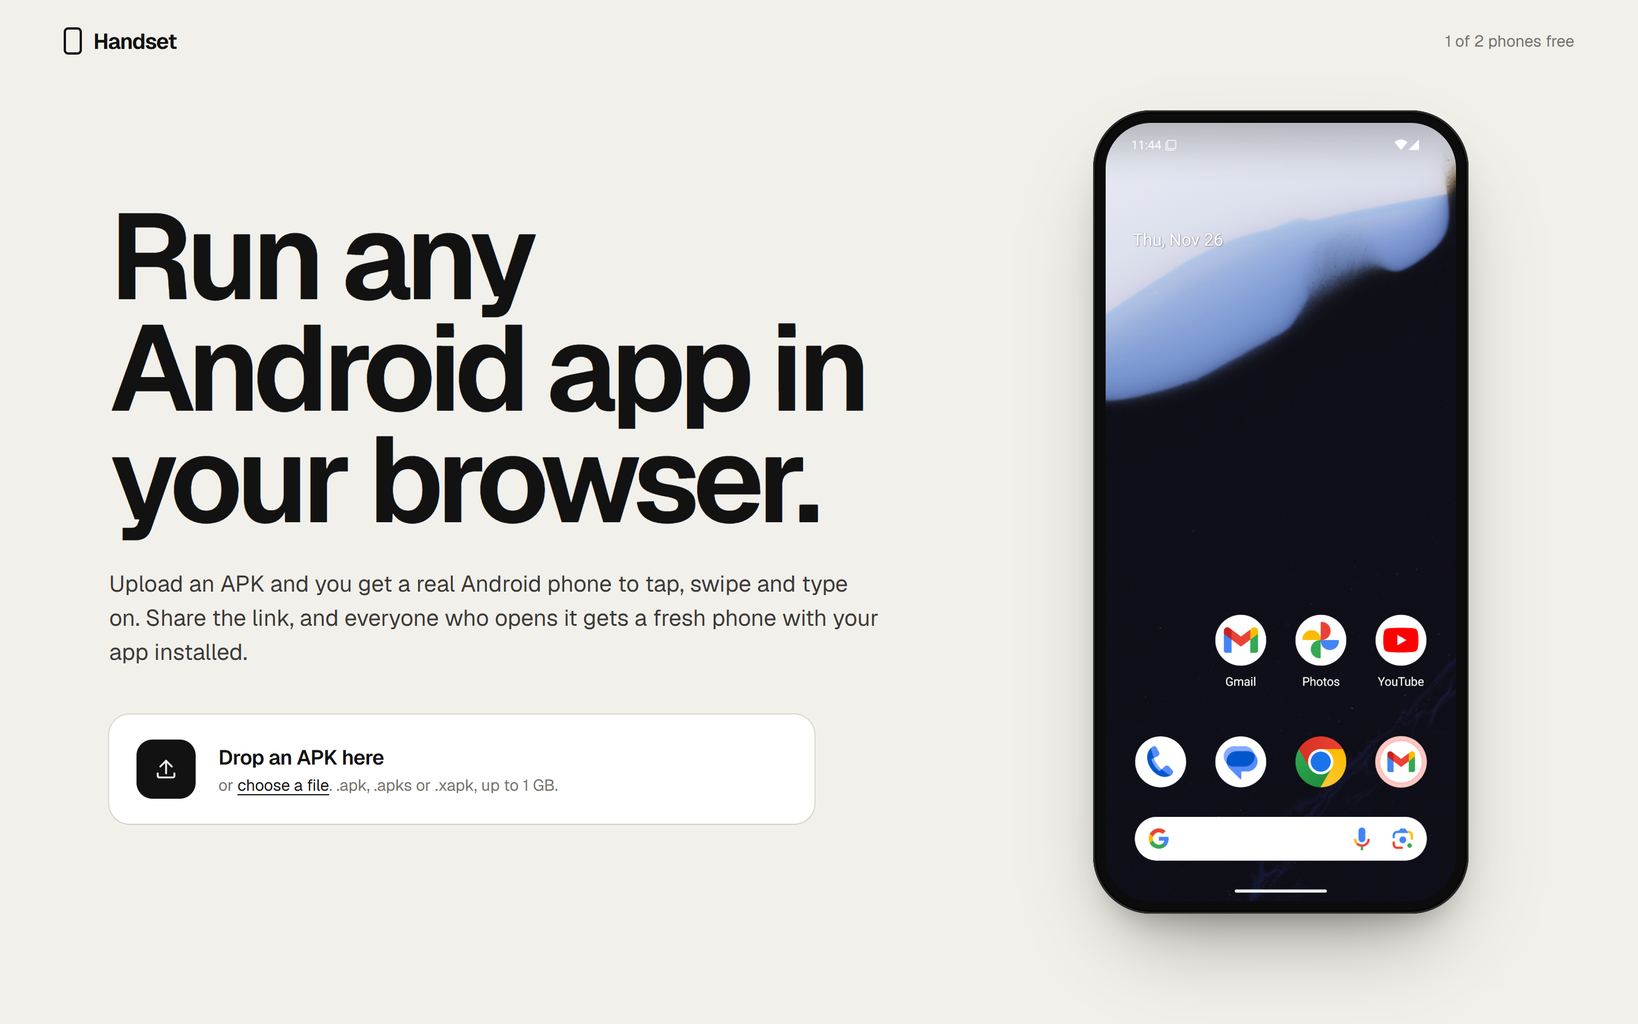
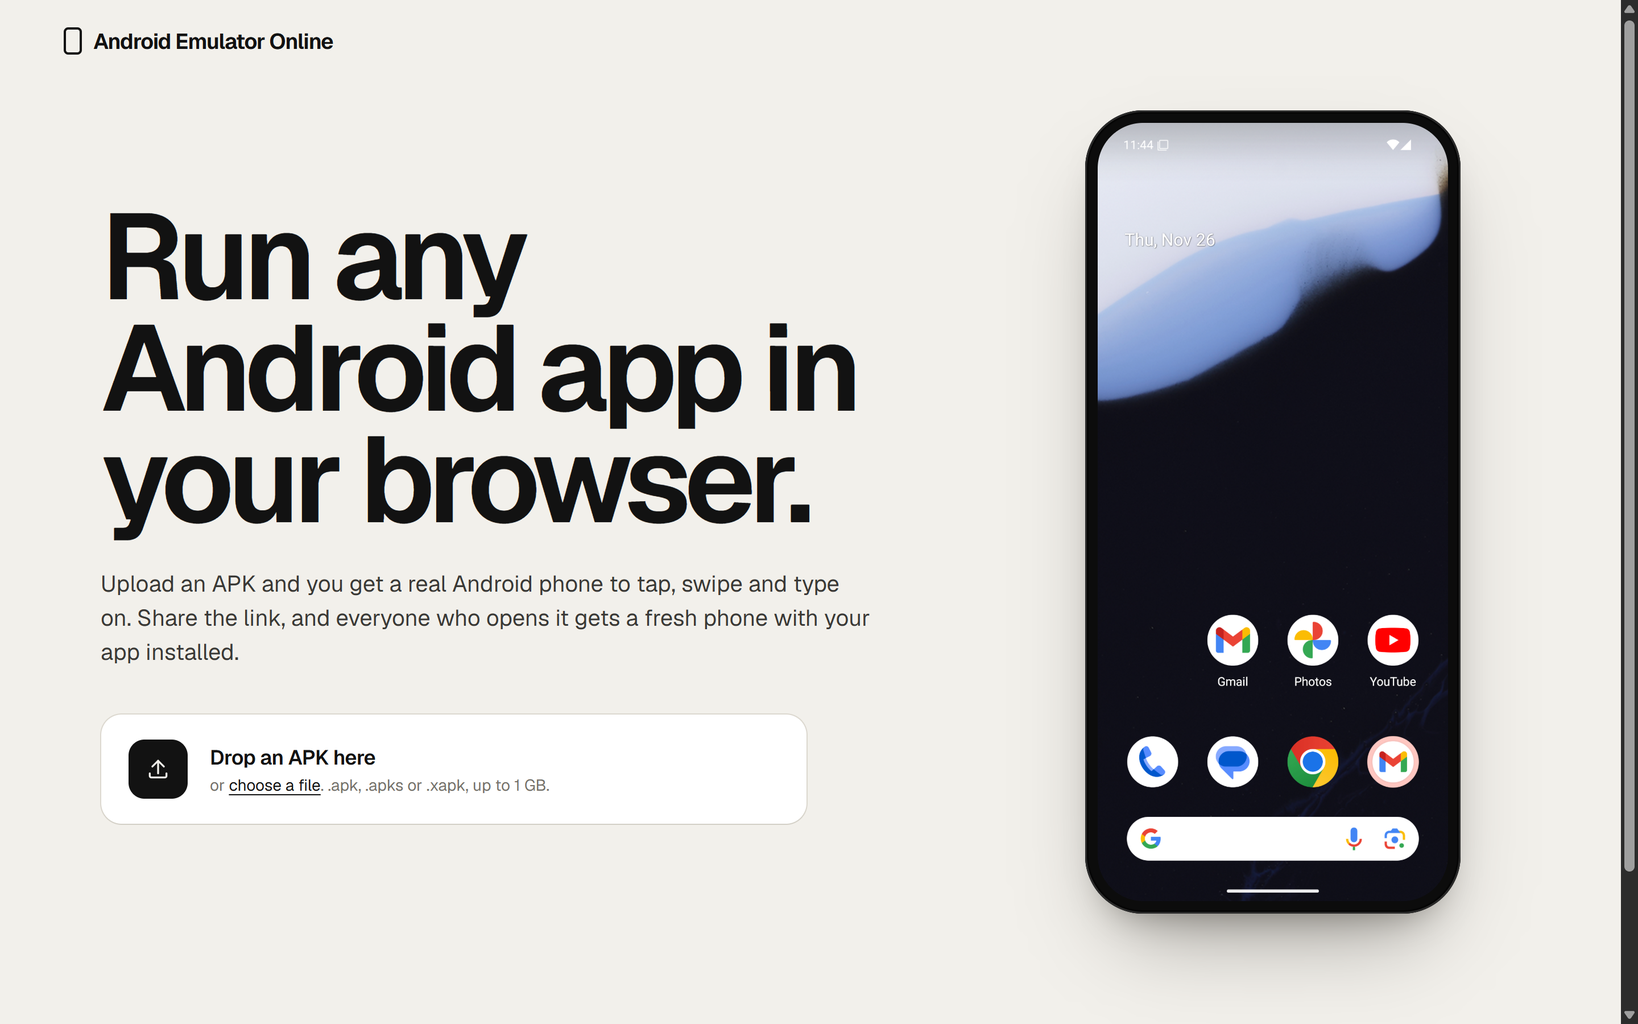
New README: why, features, comparison, measured performance, FAQ
- Clearer pitch and quick links; "Why" and "Who it's for".
- Features grouped (real phone, testing with roles, sharing, light on
  the host), including Standard/Light phones, with a picture of the menu.
- How it compares with Appetize, the Android Studio emulator and
  BrowserStack App Live.
- Requirements as minimum vs recommended, and a performance table with
  the numbers measured on a 6-core i5 without GPU acceleration.
- FAQ and troubleshooting for the common questions and problems.
- Screenshots updated for the new name.

diff --git a/README.md b/README.md
@@ -6,63 +6,123 @@
 
 **Run any Android app (APK) in your browser, on a real Android phone.**
 
-A free, self-hosted Android emulator you open in a browser tab. Tap, swipe, type and switch test accounts in one click.<br>
-Share the link and everyone who opens it gets their own fresh phone with your app. A self-hosted alternative to Appetize.
+Upload an APK, get a link, and anyone who opens it can tap, swipe and type on a fresh Android 15 phone in their browser.<br>
+Free and self-hosted: it runs on your own computer, with one-click test accounts for every role in your app.
+
+[Quick start](#quick-start) · [Features](#features) · [How it compares](#how-it-compares) · [FAQ](#faq)
 
 <br>
 
-<img src="docs/screenshot-player.png" alt="Android Emulator Online in the browser: an Android phone running a gallery app, with a list of test accounts to sign in as on the left" width="100%">
+<img src="docs/screenshot-player.png" alt="An Android phone running in the browser, showing a photo in a gallery app, with a list of test accounts to sign in as on the left and phone controls on the right" width="100%">
 
 </div>
 
 <br>
 
-## What it does
+## Why
 
-- **Real Android, in a tab.** Upload an `.apk`, `.apks` or `.xapk` and it opens on an Android 15 phone in the browser. Swipes, flings, long-press, pinch and Android's own gestures all work.
-- **A link anyone can open.** Share `/app/<id>`. Every visitor gets a fresh phone with your app installed, and it is wiped when they leave.
-- **Test accounts in one click.** Save a login for each role (Admin, Front desk…). Visitors switch between them without ever seeing a password.
-- **Light on your computer.** Phones nobody is looking at are frozen (0% CPU), and crashed phones are replaced on their own.
+Getting someone to try an Android app is clumsy. You send an APK they have to sideload, ask them to install Android Studio, or pay a cloud service by the minute. Android Emulator Online turns one computer into a small device lab instead: upload the app once, share a link, and every person who opens it gets their own phone, wiped clean when they leave.
 
-<br>
+## Features
 
-## Get started
+### Feels like a real phone
 
-You need Node.js 18+, the Android SDK and about 16 GB of RAM. [Details below](#what-you-need).
+- Real Android 15 on a Pixel 7 screen. Tap, swipe, fling, long-press and pinch, with Android's own gestures.
+- Smooth scrolling with a mouse wheel or trackpad. The wheel drives a virtual finger instead of jumping in steps, and frames are shown at an even pace.
+- Type on your keyboard. Copy and paste works in both directions between your computer and the phone.
+- Rotate, take full-resolution screenshots, restart or clear the app, go full screen.
+
+### Built for testing apps with several roles
+
+- **One-click test accounts.** Save a login for each role (Admin, Front desk, Guest…), then switch between them with one click. Visitors never see the passwords.
+- **Automatic sign-in.** It signs the app out, reopens it, taps through intro and permission screens, fills the sign-in form and presses the app's own button. If the app shows an error, you see it.
+- **Fast switching.** After the first sign-in, switching back to an account restores it in about 4 seconds.
+- Drag accounts to reorder them, and export or import them as a file.
+
+### Easy to share
+
+- Every app gets a link. Each visitor gets a fresh phone with the app installed, and it is wiped when they leave.
+- Works in any modern browser on any device, from a cheap laptop to a phone: the visitor's device only shows a video.
+
+### Light on the computer that runs it
+
+- **Standard or Light phone**, chosen per session. A Light phone uses about 2.5 GB of memory instead of about 4 GB and opens apps faster.
+- A frozen spare phone is kept ready, so a new visitor gets a phone in about 2.5 seconds while the spare uses no CPU.
+- Phones nobody is watching are frozen (0% CPU). A crashed phone is replaced on its own, with the app reinstalled.
+- Phones and sessions survive a server restart: visitors reconnect automatically.
+
+<p align="center"><img src="docs/phone-kinds.png" alt="The phone menu in the page header: Standard phone, full Android 15 that looks and works like a real phone; Light phone, uses about 2.5 GB of memory and opens apps faster" width="460"></p>
+
+## Who it's for
+
+- **QA and testers** checking each role of an app without juggling logins or devices.
+- **Agencies and freelancers** showing clients a work-in-progress build with just a link.
+- **Product, design and support teams** who need to see the app as a user sees it, without Android Studio.
+- **Sales and demos**: a live app in the browser, ready on any screen.
+
+## How it compares
+
+| | Android Emulator Online | Appetize | Android Studio emulator | BrowserStack App Live |
+| --- | --- | --- | --- | --- |
+| Runs on | Your own computer or server | Their cloud | Your computer | Their cloud |
+| Cost | Free | Paid plans, small free tier | Free | Paid, free trial |
+| Share a link to the app | Yes | Yes | No | Team accounts |
+| One-click test accounts per role | Yes | No | No | No |
+| Your app and logins stay on your machine | Yes | No | Yes | No |
+| iOS apps | No | Yes | No | Yes |
+| Real physical devices | No, emulators | No, emulators | No, emulators | Yes |
+
+## Quick start
+
+You need Node.js 18+, the Android SDK and hardware virtualization. [Full requirements](#requirements).
 
 ```bash
 git clone https://github.com/Aaryan-Saini/android-emulator-online.git
 cd android-emulator-online
 npm install
-npm run setup     # once, 5–10 min: builds a clean phone to start from
-npm start         # → http://localhost:3000
+npm run setup     # once, 5–10 minutes: builds the clean phone every session starts from
+npm start         # open http://localhost:3000
 ```
 
-Open **[localhost:3000](http://localhost:3000)**, drop in an APK, and your app opens on a phone.
+Drop an APK on the page and it opens on a phone. Copy the link to share it.
 
-<img src="docs/screenshot-home.png" alt="Home page: 'Run any Android app in your browser' with a box to drop an APK" width="100%">
+<img src="docs/screenshot-home.png" alt="The home page: Run any Android app in your browser, with a box to drop an APK and an Android phone beside it" width="100%">
 
-Each person runs their own copy. Your apps, accounts and phones stay on your computer, in `data/`, which is never committed.
+Each person who clones this runs their own copy. Uploaded apps, saved accounts and phone data stay in `data/` on your computer and are never committed.
 
-<br>
+## Requirements
 
-## Using it
+| | Minimum | Recommended |
+| --- | --- | --- |
+| CPU | 4 cores with virtualization (Intel VT-x or AMD-V) | 6 cores or more |
+| Memory | 8 GB, for one Light phone (estimated) | 16 GB or more |
+| Disk | 15 GB free | An SSD |
+| System | Windows 10/11, Linux with KVM, or macOS | |
 
-**Controls.** Everything works with a mouse, and touch screens work natively.
+- **Virtualization** must be switched on. Windows: enable it in the BIOS, then *Windows Features → Windows Hypervisor Platform*. Linux: KVM (`/dev/kvm`). macOS: nothing to do.
+- **Android SDK** with platform-tools, the emulator, build-tools and an Android 15 *Google APIs* image. The easiest way is [Android Studio](https://developer.android.com/studio) → *Settings → Android SDK*, or with the command-line tools:
 
-| | |
-| --- | --- |
-| Tap, swipe, fling | Click, or click and drag |
-| Pinch | Hold `Ctrl` and drag |
-| Back | Right-click or `Esc` |
-| Home | Middle-click, or swipe up from the bottom edge |
-| Type | Just type. `Ctrl+V` pastes into the phone, and text copied on the phone lands on your clipboard |
+  ```bash
+  sdkmanager "platform-tools" "emulator" "build-tools;35.0.0" "system-images;android-35;google_apis;x86_64"
+  ```
 
-The bar beside the phone has back, home, recent apps, rotate, screenshot, restart app, clear app data and full screen.
+  On an Apple silicon Mac use `system-images;android-35;google_apis;arm64-v8a`. The SDK is found in its usual place, or set `ANDROID_HOME`.
+- No graphics card is needed: phones are drawn on the CPU.
 
-**Test accounts.** Click **+ Add account** beside the phone, give it a name, username and password, then switch roles with one click. Android Emulator Online signs out, reopens the app, taps through intro screens and fills the sign-in form for you. After the first time, switching back to an account takes a few seconds. Drag accounts to reorder them, and use **Export / Import** to move them between computers. Accounts can be changed on the computer Android Emulator Online runs on, or in the browser that uploaded the app. Visitors from elsewhere only get the one-click list.
+## Performance
 
-<br>
+Measured on an Intel i5-9500 (6 cores) with 32 GB of RAM, no GPU acceleration, one phone in use:
+
+| | Standard phone | Light phone |
+| --- | --- | --- |
+| Memory per phone | 3.9 GB | 2.5 GB |
+| App start (a Flutter app) | about 2 s | about 1.1 s |
+| New visitor gets a phone (frozen spare ready) | about 2.5 s | |
+| Switch to an account signed in before | about 4 s | |
+| Scrolling a list, typical frame | about 22 ms | |
+| Phone nobody is watching | 0% CPU, frozen | |
+
+Two phones busy at the same time on 6 cores roughly triples frame times, so on a machine like this one phone at a time (`MAX_DEVICES=1`) feels best.
 
 ## How it works
 
@@ -74,62 +134,27 @@ flowchart LR
   S -- "WebSocket" --> B
 ```
 
-- **Phones** are Android emulators that start read-only from one clean snapshot in 15–30 seconds, so every visitor gets the same fresh phone and nothing is kept.
+- **Phones** are Android emulators that start read-only from one clean snapshot, so every visitor gets the same fresh phone and nothing is kept.
 - **Video** comes from [scrcpy](https://github.com/Genymobile/scrcpy) on the phone and is decoded in the browser with WebCodecs. Each browser gets exactly the size it shows, and late frames are dropped so lag never builds up.
-- **Sign-in** uses Android's accessibility layer to read the screen and fill fields, the way a password manager does.
+- **Sign-in** reads the screen through Android's accessibility layer and fills fields the way a password manager does, checking each value before pressing the button.
+- **Apps draw through ANGLE** inside the phone (OpenGL ES turned into Vulkan), which avoids a software renderer that crashed phones and makes apps smoother.
 
-<br>
+## Using it
 
-## What you need
+| Action | How |
+| --- | --- |
+| Tap, swipe, fling | Click, or click and drag |
+| Scroll | Mouse wheel or trackpad |
+| Pinch | Hold `Ctrl` and drag |
+| Back | Right-click or `Esc` |
+| Home | Middle-click, or the buttons beside the phone |
+| Type | Just type. `Ctrl+V` pastes into the phone, and text copied on the phone lands on your clipboard |
 
-- **Hardware virtualization.** On Windows, turn it on in the BIOS and enable *Windows Features → Windows Hypervisor Platform*. On Linux you need KVM. On a Mac there's nothing to do.
-- **Memory.** About 4 GB per phone in use (each phone is a 3 GB Android phone), so 16 GB or more is best. On 8 GB, run one phone at a time (`MAX_DEVICES=1`, `WARM_DEVICES=0`).
-- **Disk.** About 15 GB for the Android SDK and the phone snapshot.
-- **Node.js 18 or newer.**
-- **Android SDK** with platform-tools, the emulator, build-tools and an Android 15 *Google APIs* image. The easiest way is [Android Studio](https://developer.android.com/studio) → *Settings → Android SDK*. With the command-line tools:
+**Test accounts.** Click **+ Add account** beside the phone, give it a name, a username and a password, then switch roles with one click. Accounts can be changed on the computer this runs on, or in the browser that uploaded the app; visitors from elsewhere only get the one-click list.
 
-  ```bash
-  sdkmanager "platform-tools" "emulator" "build-tools;35.0.0" "system-images;android-35;google_apis;x86_64"
-  ```
+**Standard or Light phone.** Pick it in the page header; your browser remembers the choice. A Light phone has no status bar or swipe gestures, so Back and Home use the buttons beside the phone.
 
-  On an Apple silicon Mac use `system-images;android-35;google_apis;arm64-v8a`. Android Emulator Online finds the SDK in its usual place, or set `ANDROID_HOME`.
-
-<br>
-
-## Settings
-
-Everything works out of the box. To change something, put it in `data/settings.json` (stays on your computer), for example `{ "WARM_DEVICES": 0 }`, or set it as an environment variable. Then restart.
-
-<details>
-<summary><b>All settings</b></summary>
-<br>
-
-| Setting | Default | What it does |
-| --- | --- | --- |
-| `PORT` | `3000` | Web address port |
-| `MAX_DEVICES` | `2` | Phones that may run at once (about 4 GB of RAM each) |
-| `WARM_DEVICES` | `1` | Spare phones kept ready, so a new visitor gets a phone in ~2.5 s instead of ~25 s. Frozen while waiting (`FREEZE_SPARE`) |
-| `SESSION_MINUTES` | `0` | Maximum session length. `0` means no limit |
-| `IDLE_SECONDS` | `120` | Shut a phone down this long after its tab closes |
-| `PAUSE_HIDDEN_SECONDS` | `60` | A phone whose tab is in the background keeps running this long, so switching back is instant; then it is frozen |
-| `MAX_SESSIONS_PER_IP` | `2` | Phones per visitor |
-| `MAX_UPLOAD_MB` | `1024` | Largest upload |
-| `VIDEO_MAX_SIZE` / `VIDEO_MIN_SIZE` | `1024` / `640` | Stream size limits (long edge, px) |
-| `VIDEO_BITRATE` | `8000000` | Video bitrate |
-| `GRANT_PERMISSIONS` | `false` | Grant every permission at install, skipping permission prompts |
-| `FAST_FILL` | `true` | Fill sign-in fields instantly, falling back to typing |
-| `LOCAL_ADMIN` | `true` | Anyone on the computer Android Emulator Online runs on can manage every app's accounts |
-| `GUEST_ANGLE` | `true` | Apps draw through ANGLE inside the phone (smoother, and avoids a renderer that crashed phones) |
-| `PHONE_WIFI` | `false` | Phones go online over mobile data, which stays connected after a phone wakes up |
-| `KEEP_PHONES_ON_RESTART` | `true` | Phones and sessions survive a server restart |
-| `TRUST_PROXY` | unset | Set when behind a reverse proxy |
-| `ANDROID_HOME` | auto | Android SDK location |
-
-</details>
-
-<details>
-<summary><b>Letting other people use it</b></summary>
-<br>
+## Share it beyond your computer
 
 Browsers only decode video on `https://` pages (or `localhost`), so other people need an HTTPS address. The quickest way:
 
@@ -137,30 +162,86 @@ Browsers only decode video on `https://` pages (or `localhost`), so other people
 cloudflared tunnel --url http://localhost:3000
 ```
 
-For a permanent setup, put it behind a TLS reverse proxy (Caddy, nginx) with WebSocket support and set `TRUST_PROXY=1`. For more than a couple of phones at once, use a Linux server with KVM. Anyone with the address can upload an app and get a phone with internet access, so add a login in front of a public address.
+For a permanent setup, put it behind a TLS reverse proxy (Caddy, nginx) with WebSocket support and set `TRUST_PROXY=1`. Anyone with the address can upload an app and get a phone with internet access, so put a login in front of a public address. For many phones at once, run it on a Linux server with KVM.
+
+## FAQ
+
+**Is it really free?**
+Yes. It runs on your own computer or server, so there is no per-minute billing.
+
+**Can it run iOS apps?**
+No. iOS apps can only run in Apple's simulator on a Mac.
+
+**Do I need a graphics card?**
+No. Phones are drawn on the CPU, which is why a few fast cores matter more than a GPU.
+
+**Can people on other devices use it?**
+Yes. Their device only needs a modern browser; all the work happens on the computer that runs this. Share it over HTTPS (see above).
+
+**Is my data safe?**
+Uploaded apps and saved accounts stay in `data/` on your computer. Every phone is wiped when its session ends, and visitors never see account passwords.
+
+**Does the phone have the Play Store?**
+No. Phones use Google's *Google APIs* image, so apps that use Google sign-in, Maps or notifications work, but there is no Play Store.
+
+**How many phones can I run?**
+About 4 GB of memory per Standard phone and 2.5 GB per Light phone, plus CPU: on 6 cores, one busy phone at a time feels best.
+
+**Can I upload an `.aab`?**
+Convert it to an APK or a universal `.apks` with bundletool first. `.apk`, `.apks` and `.xapk` work directly.
+
+**Does it have sound?**
+Not yet.
+
+<details>
+<summary><b>Troubleshooting</b></summary>
+<br>
+
+- **The app says it is offline.** Phones go online through your computer's internet. Standard phones use mobile data and Light phones use Wi-Fi, and a phone that wakes from a freeze is only handed back once its internet works. If it persists, end the session and open the app again.
+- **Phones are slow.** Check that virtualization is on, run one phone at a time (`MAX_DEVICES=1`), and close heavy programs. On Windows, run `scripts\defender-exclusions.ps1` once as administrator so Defender stops scanning every file the emulator touches.
+- **The phone screen stays black in another browser.** It is not on `https://` or `localhost`, so the browser will not decode video. Use the tunnel above.
+- **A phone crashed.** The session moves to a fresh phone with the same app on its own, and the crash is written to `data/logs/crashes.log`. On Windows, `scripts\enable-crash-dumps.ps1` (as administrator, once) also records where it crashed.
+- **Setup fails to boot a phone.** Virtualization is usually off, or the Android 15 image is missing. `npm run setup -- --force` tries again from scratch.
 
 </details>
 
 <details>
-<summary><b>Phone setup, graphics and crashes</b></summary>
+<summary><b>All settings</b></summary>
+<br>
+
+Put them in `data/settings.json` (it stays on your computer), for example `{ "MAX_DEVICES": 1 }`, or set them as environment variables. Then restart.
+
+| Setting | Default | What it does |
+| --- | --- | --- |
+| `PORT` | `3000` | Web address port |
+| `MAX_DEVICES` | `2` | Phones that may run at once |
+| `WARM_DEVICES` | `1` | Spare phones kept ready (frozen while they wait, see `FREEZE_SPARE`) |
+| `DEFAULT_PHONE` | `standard` | Kind of phone visitors get unless they choose, and the kind kept as a spare |
+| `SESSION_MINUTES` | `0` | Maximum session length. `0` means no limit |
+| `IDLE_SECONDS` | `120` | Shut a phone down this long after its tab closes |
+| `PAUSE_HIDDEN_SECONDS` | `60` | A phone whose tab is in the background keeps running this long, then is frozen |
+| `MAX_SESSIONS_PER_IP` | `2` | Phones per visitor |
+| `MAX_UPLOAD_MB` | `1024` | Largest upload |
+| `VIDEO_MAX_SIZE` / `VIDEO_MIN_SIZE` | `1024` / `640` | Stream size limits (long edge, px). `720` is smoother on slower machines |
+| `VIDEO_BITRATE` | `8000000` | Video bitrate |
+| `GRANT_PERMISSIONS` | `false` | Grant every permission at install, skipping permission prompts |
+| `FAST_FILL` | `true` | Fill sign-in fields instantly, falling back to typing |
+| `LOCAL_ADMIN` | `true` | Anyone on the computer this runs on can manage every app's accounts |
+| `GUEST_ANGLE` | `true` | Apps draw through ANGLE inside the phone |
+| `PHONE_WIFI` | `false` | Standard phones go online over mobile data, which stays connected after a phone wakes up |
+| `KEEP_PHONES_ON_RESTART` | `true` | Phones and sessions survive a server restart |
+| `TRUST_PROXY` | unset | Set when behind a reverse proxy |
+| `ANDROID_HOME` | auto | Android SDK location |
+
+</details>
+
+<details>
+<summary><b>Phone setup and Light phones</b></summary>
 <br>
 
 - `npm start` keeps the server running and restarts it if it stops. Phones keep running across restarts. Stop everything with `Ctrl+C`, then `npm run stop-phones`.
-- `npm run setup -- --force` rebuilds the phone snapshot. Setup tries your graphics card first and falls back to software drawing. In software mode the screen is 464×1024, the largest size the video is ever sent at, so the CPU draws no pixels nobody sees; apps get the same layout as a Pixel 7 (412×910 dp). Force a mode with `--gpu=host` or `--gpu=swiftshader`, and a screen size with `--screen=WxH@dpi`. `--avd=<name>` builds into a separate profile while phones are running, and Android Emulator Online switches to it on its next restart.
-- **Light phones for weak PCs:** add a second kind of phone built from Google's slim test image (ATD): `sdkmanager "system-images;android-35;google_atd;x86_64"`, then `npm run setup -- --tag=google_atd --ram=2048 --avd=handset-light --as=light --no-switch`. Visitors then pick **Standard phone** or **Light phone** in the page header (remembered per browser). Measured against the standard phone: 1.4 GB less RAM (about 2.5 GB per phone) and apps start faster. Apps look the same, but a light phone has no status bar, no gesture navigation and no Settings app; Home and Back use the buttons beside the phone, and Android Emulator Online reopens the app instead of showing the image's empty black home screen. Spare phones are always standard (`DEFAULT_PHONE` changes that).
-- On Windows, run `scripts\defender-exclusions.ps1` once as administrator so Defender stops scanning every file the emulator touches. Phones start faster and their first minute is smoother. `-Off` undoes it.
-- If a phone crashes, its session moves to a fresh phone with the same app, and the crash is logged in `data/logs/crashes.log`. On Windows, run `scripts\enable-crash-dumps.ps1` once as administrator to also record where it crashed.
-
-</details>
-
-<details>
-<summary><b>Limits</b></summary>
-<br>
-
-- Android only. iOS apps can't run outside Apple's simulator on a Mac.
-- No sound yet.
-- `.aab` files must be turned into an APK or `.apks` first (bundletool). OBB files in `.xapk` are ignored.
-- The phones are emulators with Google APIs but no Play Store, and no camera. Apps that refuse emulators or need the Play Store behave as they would on any emulator.
+- `npm run setup -- --force` rebuilds the phone snapshot. Phones are 464×1024 (the largest size the video is ever sent at) with the same app layout as a Pixel 7, 3 GB of memory and 3 cores. Options: `--gpu=host|swiftshader`, `--screen=WxH@dpi`, `--ram=MB`, `--cores=N`, `--api=LEVEL`, `--tag=IMAGE`, `--avd=NAME` (build a separate profile while phones are running), `--no-switch`.
+- **Add Light phones** (Google's slim ATD test image): `sdkmanager "system-images;android-35;google_atd;x86_64"`, then `npm run setup -- --tag=google_atd --ram=2048 --avd=handset-light --as=light --no-switch`. Visitors then see the Standard/Light choice in the page header.
 
 </details>
 
@@ -186,4 +267,4 @@ vendor/              scrcpy-server, accessibility helper, test photos
 
 <br>
 
-<sub>Built on [scrcpy](https://github.com/Genymobile/scrcpy) (Apache 2.0) and the [Appium UiAutomator2 server](https://github.com/appium/appium-uiautomator2-server) (Apache 2.0). Test photos are public domain (CC0, see `vendor/test-media/CREDITS.md`). The screenshot shows [Fossify Gallery](https://github.com/FossifyOrg/Gallery).</sub>
+<sub>Built on [scrcpy](https://github.com/Genymobile/scrcpy) (Apache 2.0) and the [Appium UiAutomator2 server](https://github.com/appium/appium-uiautomator2-server) (Apache 2.0). Test photos are public domain (CC0, see `vendor/test-media/CREDITS.md`). The screenshot shows [Fossify Gallery](https://github.com/FossifyOrg/Gallery). Appetize, BrowserStack and Android Studio are trademarks of their owners.</sub>
